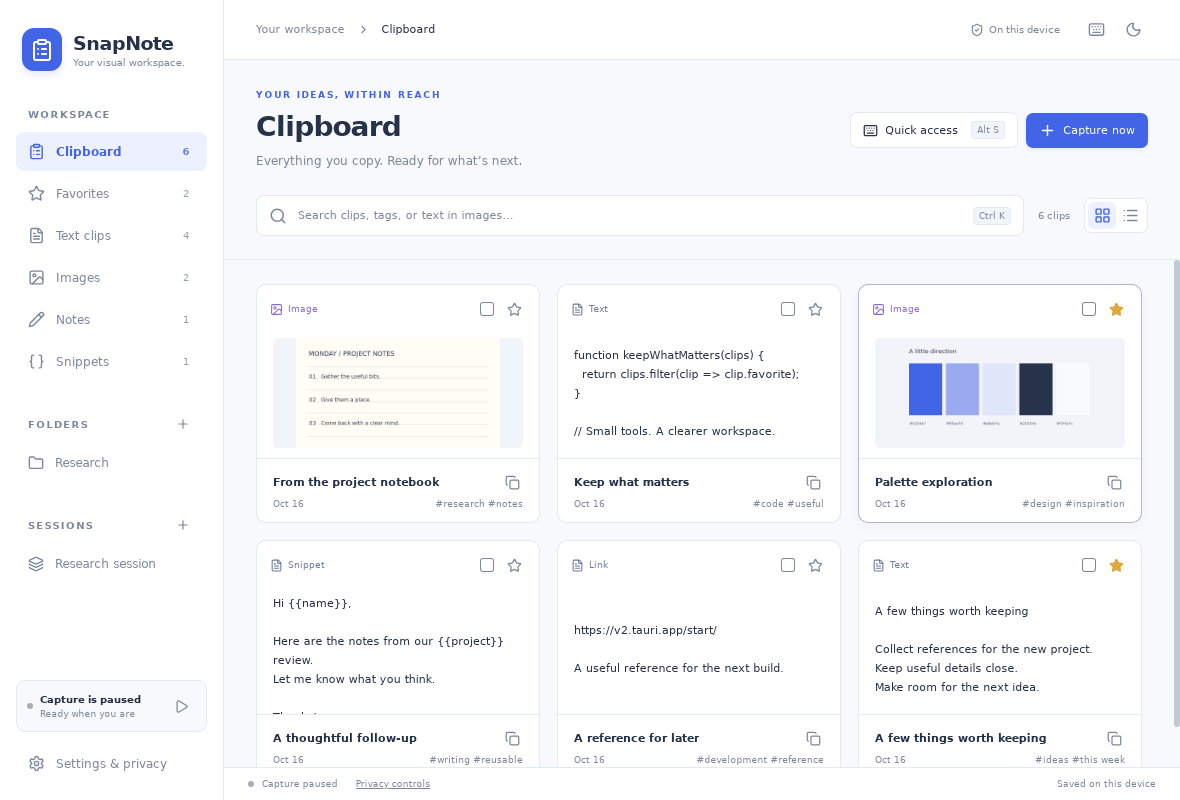
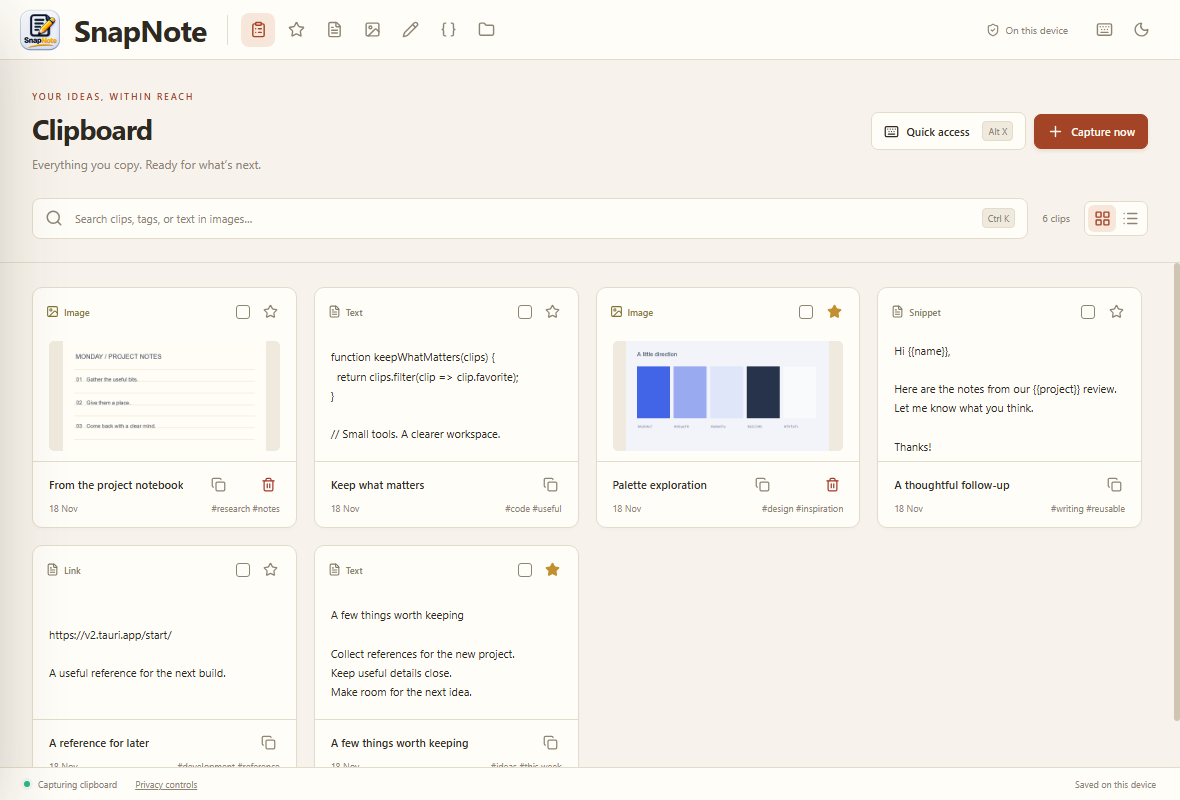
Refresh product screenshots with the doubled v1.6.0 header brand

diff --git a/docs/PROJECT-STATUS.md b/docs/PROJECT-STATUS.md
@@ -70,6 +70,16 @@ The owner replaced the v1.5.0 icon choice with two new glossy icons: a light pen
 - **README and website:** the README picture block uses the light pencil icon by default and the dark icon in dark mode; the website header and footer brand marks use the same theme-aware pair. Superseded root images (`SnapNote-logo-Dark.png`, `SnapNote-logo-white.png`, `SnapNote-App.png`) were removed.
 - **Validation:** frontend `npm test` (10/10), `format:check`, and the production build pass after the bump. Version raised to 1.5.1 across `package.json`, `Cargo.toml`, `Cargo.lock` and `tauri.conf.json`; release notes in [releases/v1.5.1.md](releases/v1.5.1.md). Tag `v1.5.1` publishes the installers.
 
+## Doubled workspace header brand and refreshed product shots, 2026-11-18
+
+The owner asked for a stronger brand at the top left: the width where the name and icon live looked small, and was to be doubled in size without introducing a background colour that departs from the system theme.
+
+- **Workspace header brand:** the glossy theme-aware SnapNote icon now sits beside the app name in the workspace header, and the wordmark doubles from 15px to 30px (weight 700, icon at 44px, divider scaled to match). The wordmark still hides below the 1100px breakpoint, so the quick-access window keeps the icon with the rail exactly as before.
+- **System surface untouched:** the brand lives directly on the existing `--surface` theme colour with no separate background, so it cannot clash in light or dark. A headless render pass measured the header at the exact theme surface in both light (`#fffdf8`) and dark (`rgb(31,26,21)`), with the white pencil icon appearing on the dark theme.
+- **Sidebar brand:** the drawer brand grows to stay in the same family (48px icon, 26px name) and now renders without overflow next to the close control.
+- **Product screenshots:** the website hero, gallery, and quick-access shots were re-captured from the v1.6.0 production web build in headless Microsoft Edge on Windows, seeded through the app's own backup import with the same illustrative clips the native staging flow uses; capture conditions are recorded in [product/README.md](product/README.md).
+- **Validation:** frontend `npm test` (10/10), `format:check`, and the production build pass; headless render checks confirm no overflow, all header controls, and no page errors in both themes. Version raised to 1.6.0 across `package.json`, `Cargo.toml`, `Cargo.lock` and `tauri.conf.json`; release notes in [releases/v1.6.0.md](releases/v1.6.0.md). Tag `v1.6.0` published the installers to the [v1.6.0 release](https://github.com/Waqar-743/SnapNote/releases/tag/v1.6.0); README download links and the website version metadata follow.
+
 ## Product limits to keep visible
 
 Tesseract and language data must be installed locally for OCR. No sync provider or automatic paste injection ships. Windows installers are unsigned unless separately configured. macOS runtime checks are not complete. Tray behavior, per-app capture exclusions, automatic lock and richer annotation tools remain later enhancements.

diff --git a/docs/product/README.md b/docs/product/README.md
@@ -1,15 +1,15 @@
 # Real desktop product screenshots
 
-Captured from the rebuilt Tauri desktop app on Linux/WebKitGTK on 2026-10-16. Clipboard content is deliberately illustrative, created through the actual system clipboard and app controls in an isolated test profile. These are screenshots of the real app, not UI mockups or claims about other users' data.
+Refreshed on 2026-11-18 for v1.6.0, when the workspace header brand was doubled (the glossy SnapNote icon joined the app name at the top left). These are screenshots of the real app — the production web build the desktop app ships — rendered in headless Microsoft Edge on Windows at the standard window sizes, not UI mockups or claims about other users' data. Clipboard content is deliberately illustrative: the same demo clips the native staging flow uses, created through the app's own workspace backup import in an isolated browser profile, with the capture control enabled and the window answering native UI queries so the header, status bar, and controls match the desktop app.
 
 - [Light workspace](workspace-light.png)
 - [Dark workspace](workspace-dark.png)
 - [Alt+X quick access](quick-access.png)
 
-To reproduce after building the desktop binary:
+To reproduce the staged data from the desktop binary instead:
 
 ```bash
 SNAPNOTE_PRODUCT_SHOTS=1 SNAPNOTE_TEST_ARTIFACTS=/tmp/snapnote-product-shots xvfb-run -a dbus-run-session -- python3 scripts/native-smoke.py
 ```
 
-Run from `snapnote/`. The existing native suite runs first, then creates example clips in its isolated profile and captures the product views. Windows CI uses a separate application identifier; these Linux images do not establish Windows runtime validation.
+Run from `snapnote/`. The existing native suite runs first, then creates example clips in its isolated profile and captures the product views. Windows CI uses a separate application identifier; those Linux images do not establish Windows runtime validation, and the current committed shots come from the Windows web-build capture described above.
